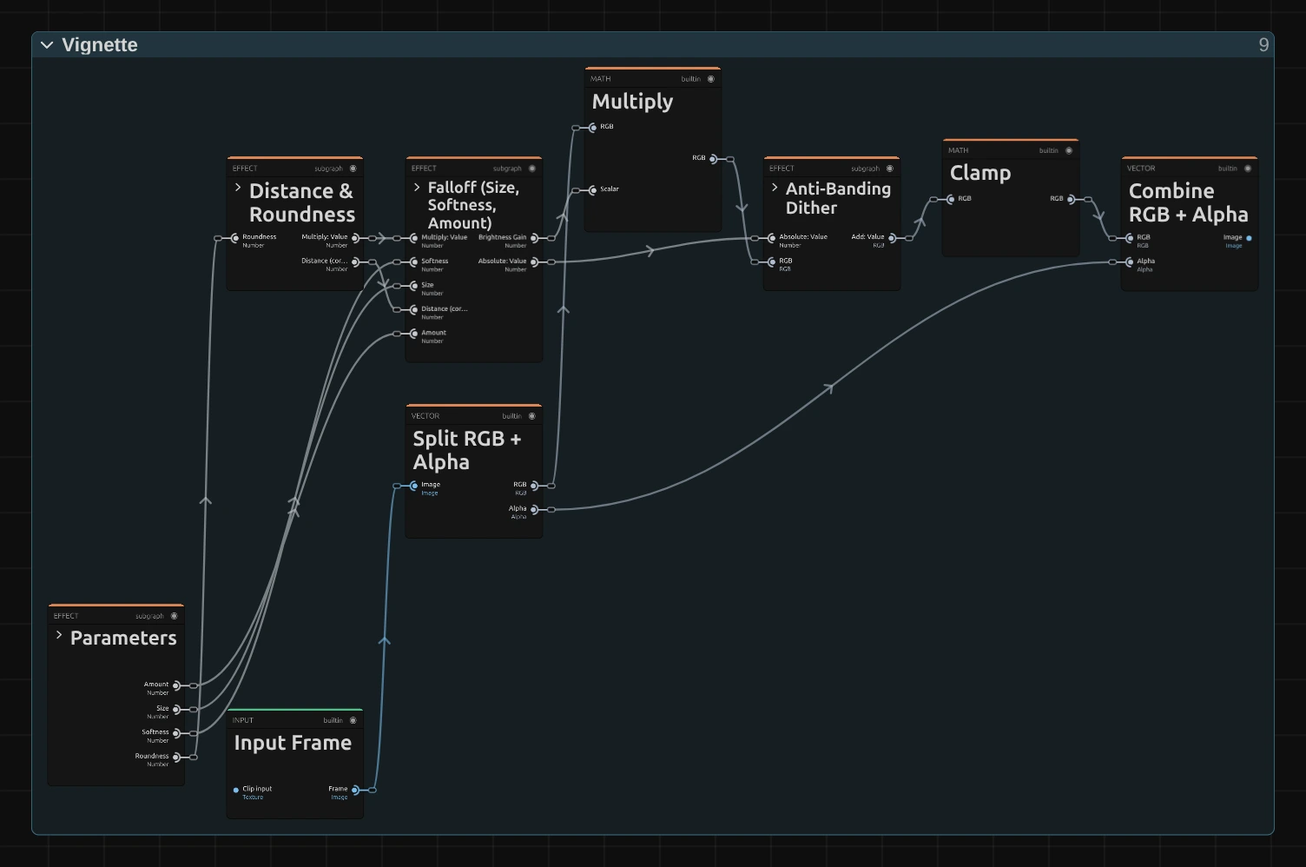
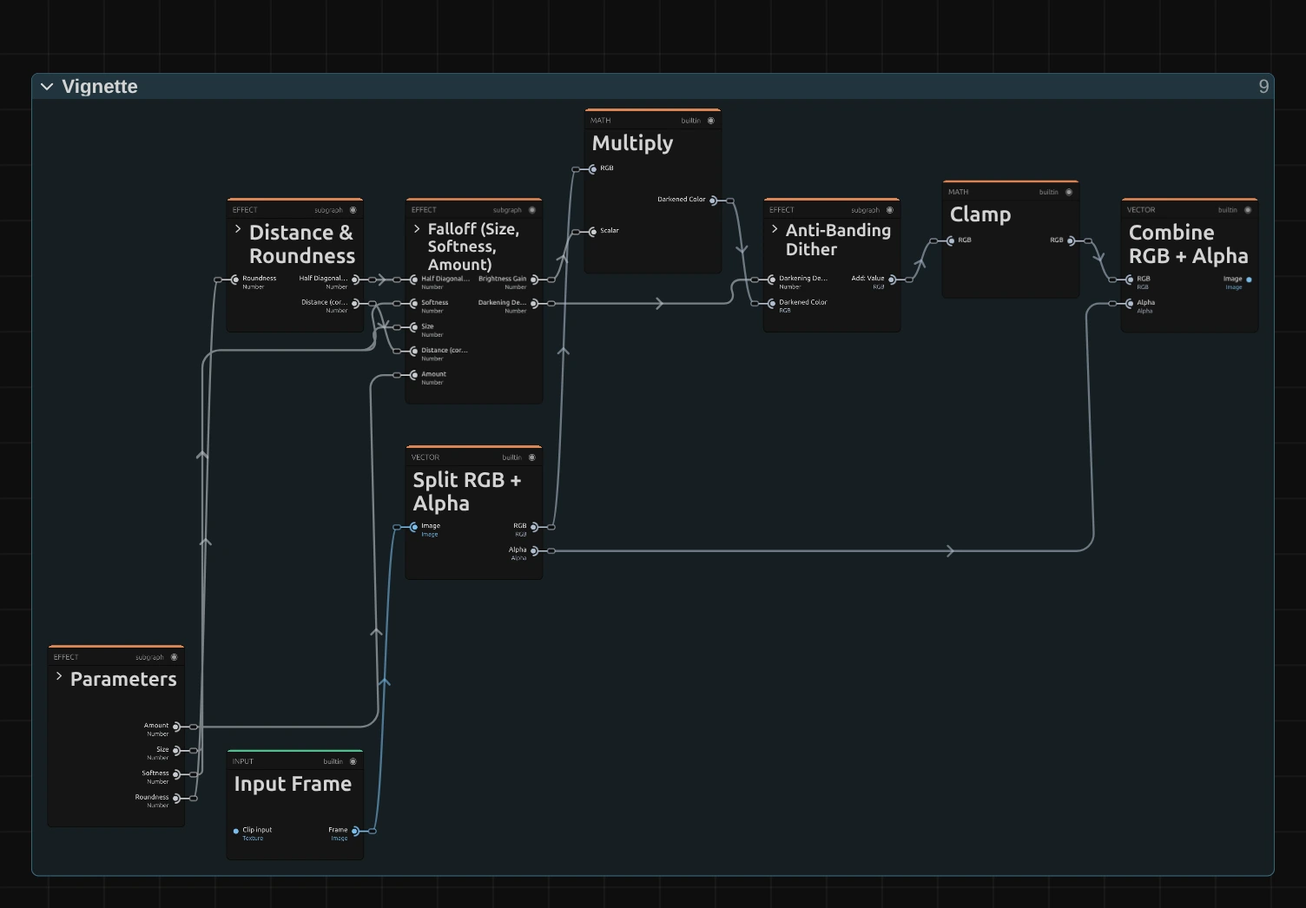
feat(vignette): add four presets, report a Size at or past the corners that darkens nothing, name the graph's stub ports, and rewrite the page to the v2 model with a compare still, a Roundness compare, preset strip, inspector callouts and one graph section per stage folder (stylizeRecipes, effectPre
Claude-Session: https://claude.ai/code/session_01SPCZUmow7FhgFsrvju87Zb

diff --git a/src/effects/stylize/vignette/index.ts b/src/effects/stylize/vignette/index.ts
@@ -4,9 +4,20 @@
 // (contextualEffectGraphs.ts); shader.wgsl only prewarms the generic effect layout.
 
 import shader from './shader.wgsl?raw';
-import type { EffectDefinition } from '../../types';
+import type { EffectDefinition, EffectPreset } from '../../types';
 import { VIGNETTE_PARAMS } from './parameters';
 import { vignetteParamNotes } from './vignetteModel';
+
+export const VIGNETTE_PRESETS: readonly EffectPreset[] = [
+  // Barely noticeable: the corners settle a little, which calms busy edges without looking like an effect.
+  { id: 'soft-frame', name: 'Soft Frame', params: { amount: 0.35, size: 0.3, softness: 1, roundness: 0.6 } },
+  // Dark corners that follow the frame, like an old or wide-open lens.
+  { id: 'old-lens', name: 'Old Lens', params: { amount: 0.8, size: 0.35, softness: 0.65, roundness: 0 } },
+  // A round pool of light in the middle and darkness around it, like a follow spot on a stage.
+  { id: 'spotlight', name: 'Spotlight', params: { amount: 0.95, size: 0.12, softness: 0.5, roundness: 1 } },
+  // A hard black circle, the iris shot of silent film; keyframe Size to open or close it.
+  { id: 'iris', name: 'Iris', params: { amount: 1, size: 0.45, softness: 0.04, roundness: 1 } },
+];
 
 export const vignette: EffectDefinition = {
   id: 'vignette',
@@ -21,6 +32,7 @@ export const vignette: EffectDefinition = {
   extraControls: () => import('../StylizeRecipeNote'),
 
   params: VIGNETTE_PARAMS,
+  presets: VIGNETTE_PRESETS,
 
   paramWarnings: (params) => vignetteParamNotes(params),
 

diff --git a/tests/unit/stylizeRecipes.test.ts b/tests/unit/stylizeRecipes.test.ts
@@ -194,6 +194,16 @@ describe('Vignette', () => {
     }
   });
 
+  it('says when Size starts the darkening at or past the corners, where it changes nothing', () => {
+    const notes = (getEffect('vignette') as FullscreenEffectDefinition).paramWarnings!;
+    expect(notes({ ...getDefaultParams('vignette'), size: 1.2 } as Record<string, number>, 1920, 1080).join(' ')).toMatch(/nothing darkens/);
+    expect(notes({ ...getDefaultParams('vignette'), size: 0.95 } as Record<string, number>, 1920, 1080)).toEqual([]);
+    for (const size of [1, 1.2, 1.5]) for (const uv of [[0.5 / 1920, 0.5 / 1080], [0.999, 0.5]] as [number, number][]) {
+      expect(gain({ amount: 1, size, softness: 1, roundness: 0 }, uv, [1920, 1080])).toBeCloseTo(1, 3);
+    }
+    expect(gain({ amount: 1, size: 0.95, softness: 0.1 }, [0.5 / 1920, 0.5 / 1080], [1920, 1080])).toBeLessThan(0.9);
+  });
+
   it('looks the same at every resolution', () => {
     for (const uv of [[0.1, 0.2], [0.8, 0.9], [0.3, 0.5]] as [number, number][]) {
       expect(Math.abs(gain({ amount: 0.7 }, uv, [960, 540]) - gain({ amount: 0.7 }, uv, [3840, 2160]))).toBeLessThan(0.006);

diff --git a/src/services/operators/effectPresentationPlans.ts b/src/services/operators/effectPresentationPlans.ts
@@ -231,7 +231,10 @@ export function effectPresentationPlan(type: string): EffectPresentationPlan | u
   };
   if (type === 'vignette') return {
     labels: { shape: 'Distance & Roundness', falloff: 'Falloff (Size, Softness, Amount)', dither: 'Anti-Banding Dither', finish: 'Darken & Alpha' },
-    portLabels: { distance: 'Distance (corners = 1)', falloff: 'Falloff', gain: 'Brightness Gain', dither: 'Dither' },
+    portLabels: { distance: 'Distance (corners = 1)', falloff: 'Falloff', gain: 'Brightness Gain', dither: 'Dither',
+      'half-diagonal': 'Half Diagonal (px)', 'gain-change': 'Darkening Depth', shaded: 'Darkened Color',
+      'circle-scale': 'Circle Scale', 'frame-scale': 'Frame Scale (√2)', center: 'Centre (0.5, 0.5)', 'corner-distance': 'Corner Distance',
+      'minimum-feather': 'Minimum Feather', pixel: 'Pixel Position', 'dither-b-pixel': 'Shifted Pixel' },
     stage: ({ id }) => /^(minimum-feather|feather|falloff|outer-edge|gain|darkening)/.test(id) ? 'falloff' : /^(pixel$|dither)/.test(id) ? 'dither'
       : /^(source-split|shaded|dithered|clamped|combine)$/.test(id) ? 'finish' : 'shape',
   };

diff --git a/src/effects/stylize/vignette/vignetteModel.ts b/src/effects/stylize/vignette/vignetteModel.ts
@@ -29,6 +29,10 @@ export function vignetteParamNotes(params: Record<string, unknown>): string[] {
   const softness = finite(params.softness, 0.5), roundness = finite(params.roundness, 1);
   if (softness < 0) notes.push(`Softness ${softness} is below 0; it is used as 0 (the sharpest edge).`);
   if (roundness < 0 || roundness > 1) notes.push(`Roundness ${roundness} is outside 0–1; it is used as ${roundness < 0 ? 0 : 1}.`);
+  // Every corner is at distance 1, so a falloff that starts there darkens nothing. The slider keeps
+  // its 0-1.5 range because Vignettes saved before 2026-10-21 (corners at about 1.41) still use it.
+  const size = finite(params.size, 0.5);
+  if (size >= 1) notes.push(`Size ${size} starts the darkening at or past the corners (1), so nothing darkens; use a Size below 1.`);
   const amount = finite(params.amount, 0.5);
   if (amount > 1) notes.push(`Amount ${amount} is above 1: the edges reach black before Size + Softness.`);
   return notes;

diff --git a/docs/Features/effects/vignette.md b/docs/Features/effects/vignette.md
@@ -1,71 +1,230 @@
 # Vignette
 
-Darkens the edges and corners so the eye goes to the middle of the frame. Subtle, it calms busy
-edges; strong, it looks like an old lens or a keyhole.
+Darkens the edges and corners so the eye goes to the middle of the frame. Subtle, it calms busy edges; strong, it looks like an old lens, a follow spot or a keyhole.
 
 Group: [Light & Stylize](../Effects-Stylize.md) · [How to add an effect](../Effects.md#add-an-effect)
 
-<figure class="docs-shot">
+<figure class="docs-shot docs-compare docs-shot--float-left">
 
-![The harbour town twice, the original above and with Vignette below: a round falloff darkens the sky, the mountains on the left and the harbour edges evenly towards all four corners, while the houses in the middle stay bright](../assets/effects/vignette.webp)
+![The harbour town in daylight, original left and with Vignette at its default values right: the sky, the mountains and the boats darken softly towards all four corners, while the houses and the harbour in the middle keep their brightness](../assets/effects/vignette.webp)
 
-<figcaption>Top: original. Bottom: Amount 0.85, Size 0.25, Softness 0.8, Roundness 1 (a circle).</figcaption>
+<figcaption>Left: original. Right: the default values (Amount 0.5, Size 0.5, Softness 0.5, Roundness 1).</figcaption>
 </figure>
 
-**Use it for:** guiding the eye to a performer · an old-lens or memory look · softening the frame
-edge of a projection.
+**Use it for:** guiding the eye to a performer · an old-lens or memory look · softening the frame edge of a projection.
 
 - **Amount** – how dark the edges get.
-- **Size** – where the darkening begins: smaller values start it closer to the centre.
+- **Size** – where the darkening begins: smaller values start it closer to the middle.
 - **Softness** – how gradually it fades in.
 - **Roundness** – 1 is a circle, 0 follows the shape of the frame.
 
-**Tip:** Amount 0.3 with a large Softness is barely noticeable, yet it calms busy edges.
+**Tip:** keyframe **Size** of the **Iris** preset from 0 up to 0.7 to open the picture like an iris in a silent film.
+
+<div class="docs-float-end"></div>
+
+## Presets
+
+<figure class="docs-shot docs-shot--detail">
+
+![The harbour town four times, labelled: Soft Frame with only the corners a little darker, Old Lens with dark corners that follow the frame, Spotlight with a round pool of light in the middle and the rest almost black, Iris with a hard-edged black circle around the town](../assets/effects/presets/vignette.webp)
+
+<figcaption>The four presets on the harbour town.</figcaption>
+</figure>
+
+Pick one in the **Preset** row of the effect card. It sets all four controls in one undo step, and the row shows its name until you change something. A control with keyframes keeps them, and the card says so.
+
+**Soft Frame** – barely noticeable: the corners settle a little and busy edges calm down, without the picture looking treated. A good default for almost any shot.
+
+**Old Lens** – dark corners that follow the shape of the frame, like an old or wide-open lens. For memories, archive looks and night scenes.
+
+**Spotlight** – a round pool of light in the middle and darkness around it, like a follow spot on a stage. It isolates a performer in the middle of the frame.
+
+**Iris** – a hard black circle, the iris shot of silent film. Keyframe Size to open or close it at the start or end of a scene.
 
 ## Controls
 
-<!-- generated:controls start -->
-| Control | Range | Default |
-|---|---|---|
-| Amount | 0 to 1 | 0.5 |
-| Size | 0 to 1.5 | 0.5 |
-| Softness | 0 to 1 | 0.5 |
-| Roundness | 0 to 1 | 1 |
+<figure class="docs-shot">
 
-The effect card also has controls of its own that this table does not list.
-<!-- generated:controls end -->
+<div class="docs-shot-stage">
+
+![Properties, Effects with a Vignette card: the Preset menu showing Spotlight, Amount 0.95, Size 0.12, Softness 0.5 and Roundness 1, beside a strip of the preview where the dancer's lit dress and arm fade into a dark stage](../assets/effects/editor/vignette-inspector.webp)
+
+<svg class="docs-shot-overlay" viewBox="0 0 1017 422" aria-hidden="true" focusable="false">
+<defs><marker id="vignette-inspector-arrow" viewBox="0 0 10 10" refX="8" refY="5" markerWidth="5" markerHeight="5" orient="auto-start-reverse"><path d="M 0 0 L 10 5 L 0 10 Z" fill="#ffd54a" /></marker></defs>
+<path class="docs-shot-arrow" d="M639 224 L723 224" marker-end="url(#vignette-inspector-arrow)" />
+<circle class="docs-shot-number" cx="639" cy="224" r="18" /><text x="639" y="224" class="docs-shot-number-text">1</text>
+<path class="docs-shot-arrow" d="M631 274 L715 274" marker-end="url(#vignette-inspector-arrow)" />
+<circle class="docs-shot-number" cx="631" cy="274" r="18" /><text x="631" y="274" class="docs-shot-number-text">2</text>
+<path class="docs-shot-arrow" d="M652 304 L736 304" marker-end="url(#vignette-inspector-arrow)" />
+<circle class="docs-shot-number" cx="652" cy="304" r="18" /><text x="652" y="304" class="docs-shot-number-text">3</text>
+<path class="docs-shot-arrow" d="M625 334 L709 334" marker-end="url(#vignette-inspector-arrow)" />
+<circle class="docs-shot-number" cx="625" cy="334" r="18" /><text x="625" y="334" class="docs-shot-number-text">4</text>
+<path class="docs-shot-arrow" d="M609 364 L693 364" marker-end="url(#vignette-inspector-arrow)" />
+<circle class="docs-shot-number" cx="609" cy="364" r="18" /><text x="609" y="364" class="docs-shot-number-text">5</text>
+</svg>
+</div>
+
+<figcaption>Vignette with the Spotlight preset. 1 — Preset: pick a starting point. 2 — Amount: how dark the edges get. 3 — Size: where the darkening begins. 4 — Softness: how gradually it fades in. 5 — Roundness: circle or frame shape.</figcaption>
+</figure>
+
+**Preset** – a starting point for all four controls; see [Presets](#presets).
+
+**Amount** – how dark the edges get. 0.3 is barely noticeable, the default 0.5 a clear but natural darkening, and at 1 the darkest part goes fully black, for a spotlight or an iris. Only the colour gets darker; transparent parts stay transparent. 0 to 1, default 0.5.
+
+**Size** – where the darkening begins, measured from the middle (0) to the corners (1). At the default 0.5 it begins about where a circle would touch the top and bottom of a 16:9 frame; at 0.1–0.2 only the middle stays bright. From 1 on the darkening would start past the corners, so nothing darkens, and the card says so; the slider reaches 1.5 because Vignettes saved before 2026-10-21 still use that range. Animate it for an iris that opens or closes. 0 to 1.5, default 0.5.
+
+**Softness** – how gradually the darkening fades in, from where Size begins to how far it reaches. At 1 it fades over the whole frame, gentle as a lens; around 0.5 it is a clear soft ring; at 0 it is a hard edge, only one and a half pixels wide, for an iris or a keyhole. Size plus Softness above 1 means the corners are only partly dark. 0 to 1, default 0.5.
+
+<figure class="docs-shot docs-compare docs-shot--float-right" data-before="Roundness 1" data-after="Roundness 0">
+
+![The harbour town with a strong Vignette twice: at Roundness 1 left the light falls in a circle that leaves the left and right thirds of the frame dark, at Roundness 0 right it is a wide oval that follows the frame and darkens mostly the corners](../assets/effects/vignette-roundness.webp)
+
+<figcaption>Amount 1, Size 0.45, Softness 0.25. Left: Roundness 1, a circle. Right: Roundness 0, the shape of the frame.</figcaption>
+</figure>
+
+**Roundness** – the shape of the bright middle. At 1 it is a true circle on any frame, wide or portrait, like a spotlight. At 0 it is an oval that follows the frame and touches all four edges at once, so mostly the corners darken, like a lens. Values between blend the two; 0.5–0.7 looks the most natural on a wide frame. 0 to 1, default 1.
+
+<div class="docs-float-end"></div>
 
 ## Node setup
 
 <figure class="docs-shot docs-shot--graph">
 
-![The Vignette graph: Parameters feed Distance & Roundness and Falloff (Size, Softness, Amount); Distance & Roundness feeds Falloff; Input Frame feeds Split RGB + Alpha; Multiply darkens the RGB by the Brightness Gain from Falloff; Anti-Banding Dither, Clamp and Combine RGB + Alpha follow, with the alpha passed straight from Split RGB + Alpha to Combine](../assets/effects/graphs/vignette.webp)
+<div class="docs-shot-stage">
 
-<figcaption>Vignette with the Constants and Coordinates folders and the Output card left out.</figcaption>
+![The Vignette graph: Parameters feed Distance & Roundness and Falloff (Size, Softness, Amount); Distance & Roundness passes the Distance and the Half Diagonal to Falloff; Input Frame goes into Split RGB + Alpha; Multiply darkens the RGB by the Brightness Gain from Falloff; Anti-Banding Dither adds its noise to the Darkened Color; Clamp and Combine RGB + Alpha follow, with the alpha passed straight from Split RGB + Alpha](../assets/effects/graphs/vignette.webp)
+
+<svg class="docs-shot-overlay" viewBox="0 0 1017 707" aria-hidden="true" focusable="false">
+<defs><marker id="vignette-arrow" viewBox="0 0 10 10" refX="8" refY="5" markerWidth="5" markerHeight="5" orient="auto-start-reverse"><path d="M 0 0 L 10 5 L 0 10 Z" fill="#ffd54a" /></marker></defs>
+<path class="docs-shot-arrow" d="M230 64 L230 148" marker-end="url(#vignette-arrow)" />
+<circle class="docs-shot-number" cx="230" cy="64" r="18" /><text x="230" y="64" class="docs-shot-number-text">1</text>
+<path class="docs-shot-arrow" d="M369 64 L369 148" marker-end="url(#vignette-arrow)" />
+<circle class="docs-shot-number" cx="369" cy="64" r="18" /><text x="369" y="64" class="docs-shot-number-text">2</text>
+<path class="docs-shot-arrow" d="M648 349 L648 265" marker-end="url(#vignette-arrow)" />
+<circle class="docs-shot-number" cx="648" cy="349" r="18" /><text x="648" y="349" class="docs-shot-number-text">3</text>
+<path class="docs-shot-arrow" d="M508 22 L508 79" marker-end="url(#vignette-arrow)" />
+<circle class="docs-shot-number" cx="508" cy="22" r="18" /><text x="508" y="22" class="docs-shot-number-text">4</text>
+</svg>
+</div>
+
+<figcaption>Vignette opened in the Nodes tab (Constants, Coordinates and the Output card left out). 1 — Distance & Roundness: how far each pixel is from the middle. 2 — Falloff: how much it darkens. 3 — Anti-Banding Dither: no steps in dark gradients. 4 — Multiply: the darkening itself.</figcaption>
 </figure>
 
-**Distance & Roundness** measures how far each pixel lies from the centre, with every corner at 1;
-Roundness blends between a circle and the shape of the frame. **Falloff** turns that distance into a
-brightness gain from Size, Softness and Amount, and **Multiply** darkens the picture by it.
-**Anti-Banding Dither** adds a tiny amount of noise where the gain changes, so a smooth dark
-background shows no steps.
+Vignette is one pass over the picture. **Distance & Roundness** measures how far each pixel is from the middle, with every corner at 1. **Falloff** turns that distance into a brightness gain from Size, Softness and Amount, and **Multiply** darkens the colour by it. **Anti-Banding Dither** adds a trace of noise where the gain changes, so a smooth dark background shows no rings. Clamp and Combine RGB + Alpha then put the untouched transparency back. Click a folder's header to open it.
 
-**Remix:** to see the banding the dither prevents, drag the cable from **Multiply** straight into
-**Clamp**, past **Anti-Banding Dither**. On a dark, smooth background the falloff then shows faint
-rings.
+### Distance & Roundness
+
+<figure class="docs-shot docs-shot--graph">
+
+<div class="docs-shot-stage">
+
+![Inside the Distance & Roundness folder: Roundness is clamped to 0–1 and blends between Frame Scale (√2) and Circle Scale with a Subtract, a Multiply and an Add into the axis scale; Subtract takes the Centre (0.5, 0.5) from UV; a Multiply scales that offset per axis; Length measures it and Divide by the Corner Distance gives the Distance with every corner at 1](../assets/effects/graphs/vignette-distance.webp)
+
+<svg class="docs-shot-overlay" viewBox="0 0 1017 648" aria-hidden="true" focusable="false">
+<defs><marker id="vignette-distance-arrow" viewBox="0 0 10 10" refX="8" refY="5" markerWidth="5" markerHeight="5" orient="auto-start-reverse"><path d="M 0 0 L 10 5 L 0 10 Z" fill="#ffd54a" /></marker></defs>
+<path class="docs-shot-arrow" d="M508 570 L508 486" marker-end="url(#vignette-distance-arrow)" />
+<circle class="docs-shot-number" cx="508" cy="570" r="18" /><text x="508" y="570" class="docs-shot-number-text">1</text>
+<path class="docs-shot-arrow" d="M508 50 L508 134" marker-end="url(#vignette-distance-arrow)" />
+<circle class="docs-shot-number" cx="508" cy="50" r="18" /><text x="508" y="50" class="docs-shot-number-text">2</text>
+<path class="docs-shot-arrow" d="M648 409 L648 325" marker-end="url(#vignette-distance-arrow)" />
+<circle class="docs-shot-number" cx="648" cy="409" r="18" /><text x="648" y="409" class="docs-shot-number-text">3</text>
+<path class="docs-shot-arrow" d="M787 101 L787 185" marker-end="url(#vignette-distance-arrow)" />
+<circle class="docs-shot-number" cx="787" cy="101" r="18" /><text x="787" y="101" class="docs-shot-number-text">4</text>
+<path class="docs-shot-arrow" d="M926 409 L926 325" marker-end="url(#vignette-distance-arrow)" />
+<circle class="docs-shot-number" cx="926" cy="409" r="18" /><text x="926" y="409" class="docs-shot-number-text">5</text>
+</svg>
+</div>
+
+<figcaption>Inside Distance & Roundness, reduced to its recipe (how Circle Scale and Corner Distance are worked out is left out). 1 — Subtract: the offset from the middle. 2 — Add: the scale per axis. 3 — Multiply: the offset in that scale. 4 — Length: how far. 5 — Divide: corners at 1.</figcaption>
+</figure>
+
+**Subtract** – the pixel's position minus the Centre (0.5, 0.5): how far it lies from the middle of the frame, across and down.
+
+**Add** – the scale for each axis. Frame Scale (√2) on both axes gives an oval that follows the frame; Circle Scale (each side divided by half the diagonal) gives a circle in pixels. The Clamp, Subtract and Multiply before it blend the two by Roundness.
+
+**Multiply** – the offset from the middle in that scale, so a wide frame and a portrait frame measure in the same pixels.
+
+**Length** – the straight-line distance from the middle.
+
+**Divide** – divides by the Corner Distance, the distance the same scale gives a corner. Every corner is therefore at exactly 1 on any frame and at any Roundness, which is what Size counts in.
+
+**Remix:** to put the bright middle on a performer who stands off centre, replace the Centre (0.5, 0.5) card that feeds **Subtract** with a **Combine Vector** of X 0.35 and Y 0.5: the vignette moves left. The corners are then no longer all at 1: the near side darkens less, the far side more.
+
+### Falloff (Size, Softness, Amount)
+
+<figure class="docs-shot docs-shot--graph">
+
+<div class="docs-shot-stage">
+
+![Inside the Falloff folder: Maximum of Softness and Minimum Feather gives the feather; Add of Size and the feather is the outer edge; Smoothstep of the Distance between Size and the outer edge gives the Falloff; Multiply by Amount gives the darkening; Subtract from One and Maximum with Zero give the Brightness Gain](../assets/effects/graphs/vignette-falloff.webp)
+
+<svg class="docs-shot-overlay" viewBox="0 0 1017 523" aria-hidden="true" focusable="false">
+<defs><marker id="vignette-falloff-arrow" viewBox="0 0 10 10" refX="8" refY="5" markerWidth="5" markerHeight="5" orient="auto-start-reverse"><path d="M 0 0 L 10 5 L 0 10 Z" fill="#ffd54a" /></marker></defs>
+<path class="docs-shot-arrow" d="M230 452 L230 368" marker-end="url(#vignette-falloff-arrow)" />
+<circle class="docs-shot-number" cx="230" cy="452" r="18" /><text x="230" y="452" class="docs-shot-number-text">1</text>
+<path class="docs-shot-arrow" d="M508 500 L508 416" marker-end="url(#vignette-falloff-arrow)" />
+<circle class="docs-shot-number" cx="508" cy="500" r="18" /><text x="508" y="500" class="docs-shot-number-text">2</text>
+<path class="docs-shot-arrow" d="M648 452 L648 368" marker-end="url(#vignette-falloff-arrow)" />
+<circle class="docs-shot-number" cx="648" cy="452" r="18" /><text x="648" y="452" class="docs-shot-number-text">3</text>
+<path class="docs-shot-arrow" d="M787 143 L787 227" marker-end="url(#vignette-falloff-arrow)" />
+<circle class="docs-shot-number" cx="787" cy="143" r="18" /><text x="787" y="143" class="docs-shot-number-text">4</text>
+</svg>
+</div>
+
+<figcaption>Inside Falloff, reduced to its recipe (the Darkening Depth it passes to the dither is left out). 1 — Maximum: never sharper than a pixel and a half. 2 — Smoothstep: the soft ring. 3 — Multiply: by Amount. 4 — Subtract: the Brightness Gain.</figcaption>
+</figure>
+
+**Maximum** – the width of the ring: Softness, but never less than the Minimum Feather of one and a half pixels. That is why Softness 0 still gives a clean edge without stair steps.
+
+**Smoothstep** – 0 inside Size, 1 beyond Size plus that width, with a smooth S-curve between: how far into the darkening each pixel lies.
+
+**Multiply** – that share times Amount: how much each pixel darkens.
+
+**Subtract** – 1 minus the darkening, the Brightness Gain. The Maximum after it keeps it from going below 0 when Amount is typed above 1.
+
+### Anti-Banding Dither
+
+<figure class="docs-shot docs-shot--graph">
+
+<div class="docs-shot-stage">
+
+![Inside the Anti-Banding Dither folder: two Random (Cell) nodes read the Pixel Position and the Shifted Pixel; Add and Subtract One centre their sum; Multiply by Dither Step 0.002 and by the active share; Darkening Depth times Dither Ramp 16, clamped between Zero and One, is the active share; Scalar to RGB and Add put the dither onto the Darkened Color](../assets/effects/graphs/vignette-dither.webp)
+
+<svg class="docs-shot-overlay" viewBox="0 0 1017 680" aria-hidden="true" focusable="false">
+<defs><marker id="vignette-dither-arrow" viewBox="0 0 10 10" refX="8" refY="5" markerWidth="5" markerHeight="5" orient="auto-start-reverse"><path d="M 0 0 L 10 5 L 0 10 Z" fill="#ffd54a" /></marker></defs>
+<path class="docs-shot-arrow" d="M204 421 L204 337" marker-end="url(#vignette-dither-arrow)" />
+<circle class="docs-shot-number" cx="204" cy="421" r="18" /><text x="204" y="421" class="docs-shot-number-text">1</text>
+<path class="docs-shot-arrow" d="M448 62 L448 146" marker-end="url(#vignette-dither-arrow)" />
+<circle class="docs-shot-number" cx="448" cy="62" r="18" /><text x="448" y="62" class="docs-shot-number-text">2</text>
+<path class="docs-shot-arrow" d="M569 538 L569 454" marker-end="url(#vignette-dither-arrow)" />
+<circle class="docs-shot-number" cx="569" cy="538" r="18" /><text x="569" y="538" class="docs-shot-number-text">3</text>
+<path class="docs-shot-arrow" d="M935 62 L935 146" marker-end="url(#vignette-dither-arrow)" />
+<circle class="docs-shot-number" cx="935" cy="62" r="18" /><text x="935" y="62" class="docs-shot-number-text">4</text>
+</svg>
+</div>
+
+<figcaption>Inside Anti-Banding Dither, reduced to its recipe (how the pixel positions are worked out is left out). 1 — Random (Cell): a fixed random value per pixel. 2 — Subtract: noise around 0. 3 — Clamp: only where it darkens. 4 — Add: onto the picture.</figcaption>
+</figure>
+
+A dark, smooth gradient has only a few 8-bit steps to go through, so a wide vignette over a black stage can show faint rings. This folder hides them with noise far too small to see.
+
+**Random (Cell)** – a fixed random number for every pixel; a second one reads a shifted pixel. The pattern stays the same from frame to frame, so it never shimmers.
+
+**Subtract** – the sum of both random numbers minus 1: a noise that lies around 0 and is most often small. The Multiply cards after it scale it to at most half an 8-bit step (Dither Step 0.002).
+
+**Clamp** – how much the darkening at this pixel asks for dither: the Darkening Depth times 16, limited to 0–1. Where Vignette leaves the picture alone, the picture stays exactly as it was.
+
+**Add** – adds the noise to the Darkened Color from Multiply.
+
+**Remix:** to see the rings the dither prevents, drag the cable from **Multiply** (the Darkened Color) straight into the top-level Clamp, past Anti-Banding Dither, and give the Vignette a wide Softness over a dark background.
 
 ## Technical details
 
-- **Shape.** The distance is measured in pixels, with every corner at 1 on any aspect ratio. The
-  feather is at least 1.5 px.
-- **Dither.** At most half an 8-bit step, and only where the picture changes.
-- **Saved projects.** A Vignette saved before 2026-10-21 keeps its earlier look (its Roundness 0.5–2
-  meant something else); its card offers **Use the new Vignette (resets its shape)**, which resets
-  Size, Softness and Roundness and removes their keyframes, in one undo step.
-- **Transitions.** The Vignette Bloom transition uses the current Vignette (Roundness 0, with Size
-  and Softness ÷ √2, which gives the transition its familiar falloff).
-- **Software preview.** Without a graph (as transitions create it) the worker software renderer uses
-  the current pixel distance without the dither.
-- Shared notes: [Light & Stylize](../Effect-System.md#light--stylize-notes). Formulas:
-  [Effect system](../Effect-System.md#editable-color-effect-graphs); blocks:
-  [Node Catalog](../Node-Catalog.md).
+- **Distance.** Measured in pixels from the middle of the layer, normalized so every corner is at 1 on any size and aspect. Roundness blends the per-axis scale from `√2` (frame-shaped oval) to `side / half diagonal` (circle).
+- **Falloff.** `gain = max(0, 1 − Amount · smoothstep(Size, Size + max(Softness, 1.5 px), distance))`, applied to the colour; alpha is kept.
+- **Dither.** Triangular, at most half an 8-bit step, fixed per pixel, and only where the gain differs from 1 (full from a darkening of 1/16).
+- **Warnings.** Size at or above 1 (nothing darkens), Softness below 0, Roundness outside 0–1 and Amount above 1 are reported in the effect card and the tool result.
+- **Saved projects.** A Vignette saved before 2026-10-21 keeps its earlier look (its Roundness 0.5–2 stretched the frame-shaped oval vertically, and its Size reached to about 1.41 at the corners); its card offers **Use the new Vignette (resets its shape)**, which resets Size, Softness and Roundness and removes their keyframes, in one undo step.
+- **Transitions.** The Vignette Bloom transition uses the current Vignette (Roundness 0, with Size and Softness ÷ √2, which gives the transition its familiar falloff).
+- **Software preview.** Without a graph (as transitions create it) the worker software renderer uses the current pixel distance without the dither.
+- Shared notes: [Light & Stylize](../Effect-System.md#light--stylize-notes). Formulas: [Effect system](../Effect-System.md#editable-color-effect-graphs); blocks: [Node Catalog](../Node-Catalog.md).

diff --git a/docs/Features/Effect-System.md b/docs/Features/Effect-System.md
@@ -637,7 +637,10 @@ touching all four edges at the same distance) to a true circle (1, the default).
 The darkening starts at Size and is complete at Size + Softness (smoothstep, never
 narrower than 1.5 px), `gain = 1 − Amount × falloff`; a dither of at most half an
 8-bit step, only where the gain changes the picture, keeps dark gradients free of
-banding. One fullscreen pass; alpha is kept. Vignettes saved before 2026-10-21 keep
+banding. One fullscreen pass; alpha is kept. A Size at or above 1 starts past the
+corners and darkens nothing, which `vignetteParamNotes` reports in the card and the
+tool result (the slider keeps 0–1.5 for the earlier recipe). Presets: Soft Frame, Old
+Lens, Spotlight, Iris. Vignettes saved before 2026-10-21 keep
 their earlier graph, where Roundness (0.5–2) stretched a UV ellipse vertically. UV-dependent node previews show
 the spatial field instead of inventing a single numeric value. Adding a UV
 dependency to another image graph also routes it through the contextual
